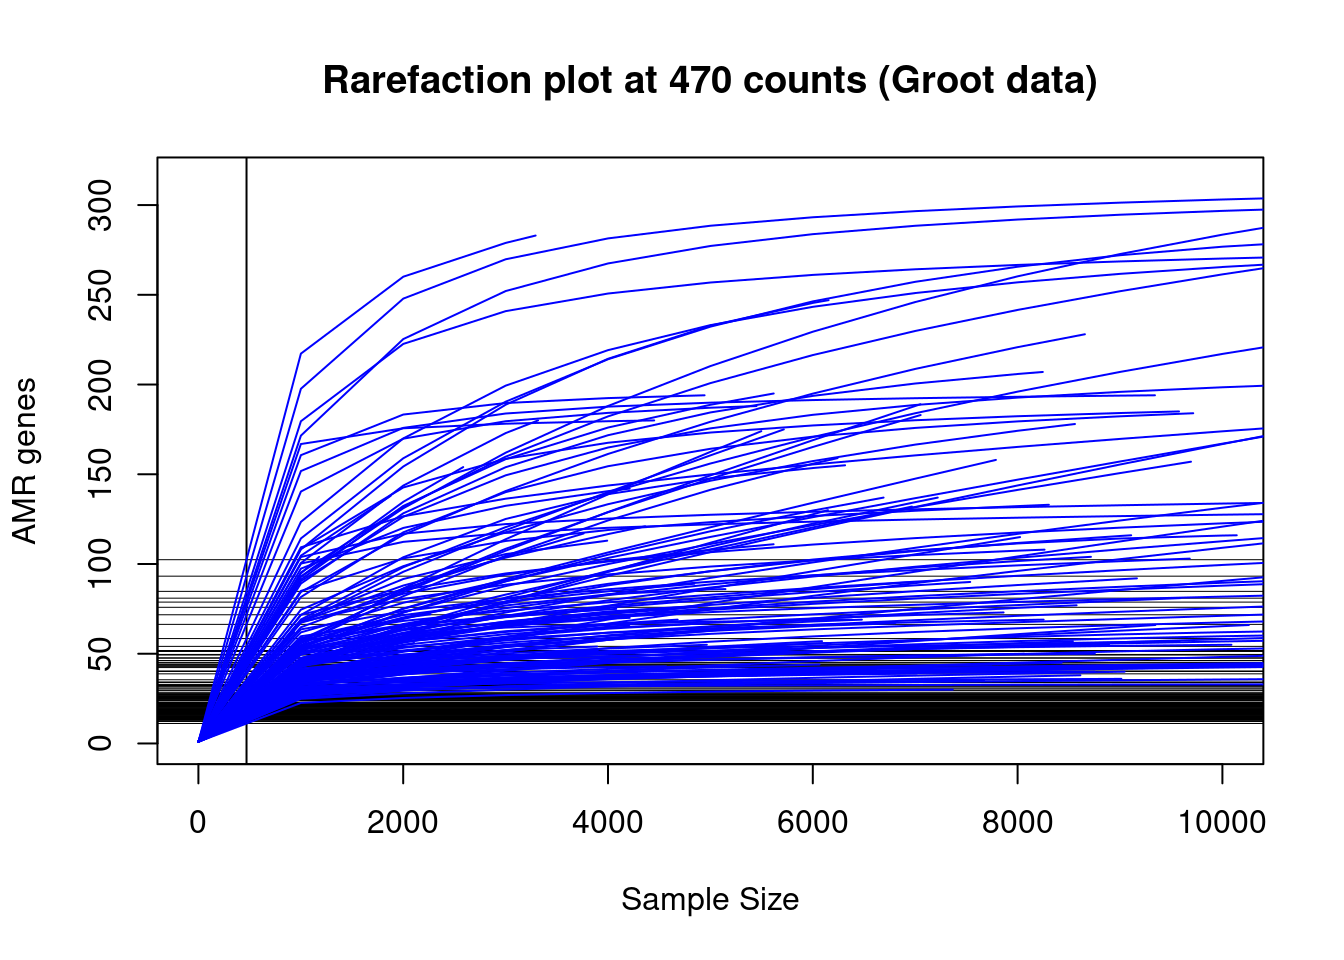
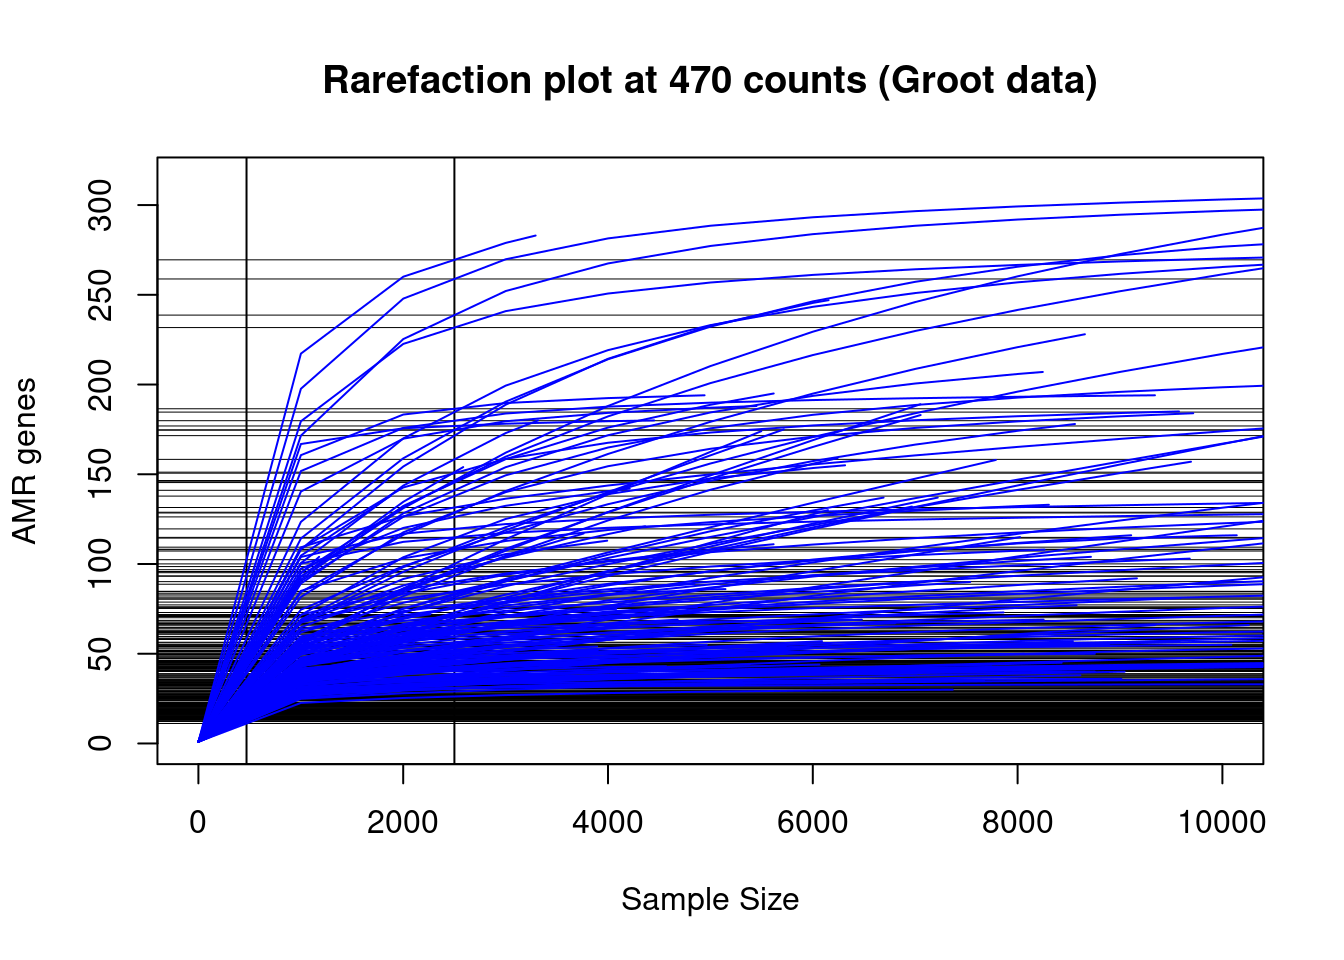
pec2_figures

Changed region(s): [[0.0938, 0.4062, 0.9375, 0.7188], [0.3125, 0.25, 0.3438, 0.3438]]

diff --git a/docs/03_rarefaction.html b/docs/03_rarefaction.html
@@ -347,6 +347,9 @@ div.tocify {
   <a href="02_summarize_data.html">Summarize data</a>
 </li>
 <li>
+  <a href="01_1_import_virulome.html">Import virulome</a>
+</li>
+<li>
   <a href="03_rarefaction.html">Rarefy data</a>
 </li>
 <li>
@@ -359,10 +362,19 @@ div.tocify {
   <a href="05_beta_div.html">Beta diversity analysis</a>
 </li>
 <li>
-  <a href="06_biplot.html">Biplot (Separman)</a>
+  <a href="06_biplot.html">Biplot (Spearman)</a>
 </li>
 <li>
   <a href="06_2_biplot_envfit.html">Biplot (Envfit)</a>
+</li>
+<li>
+  <a href="contingency_tabe.html">Contingency table</a>
+</li>
+<li>
+  <a href="08_amr_significance.html">AMR significance</a>
+</li>
+<li>
+  <a href="Profile.html">Profile</a>
 </li>
 <li>
   <a href="about.html">About</a>
@@ -399,7 +411,7 @@ div.tocify {
 
 <p>
 <button type="button" class="btn btn-default btn-workflowr btn-workflowr-report" data-toggle="collapse" data-target="#workflowr-report">
-<span class="glyphicon glyphicon-list" aria-hidden="true"></span> workflowr <span class="glyphicon glyphicon-ok text-success" aria-hidden="true"></span>
+<span class="glyphicon glyphicon-list" aria-hidden="true"></span> workflowr <span class="glyphicon glyphicon-exclamation-sign text-danger" aria-hidden="true"></span>
 </button>
 </p>
 <div id="workflowr-report" class="collapse">
@@ -408,7 +420,7 @@ div.tocify {
 <a data-toggle="tab" href="#summary">Summary</a>
 </li>
 <li>
-<a data-toggle="tab" href="#checks"> Checks <span class="glyphicon glyphicon-ok text-success" aria-hidden="true"></span> </a>
+<a data-toggle="tab" href="#checks"> Checks <span class="glyphicon glyphicon-exclamation-sign text-danger" aria-hidden="true"></span> </a>
 </li>
 <li>
 <a data-toggle="tab" href="#versions">Past versions</a>
@@ -417,10 +429,10 @@ div.tocify {
 <div class="tab-content">
 <div id="summary" class="tab-pane fade in active">
 <p>
-<strong>Last updated:</strong> 2022-09-03
+<strong>Last updated:</strong> 2022-11-07
 </p>
 <p>
-<strong>Checks:</strong> <span class="glyphicon glyphicon-ok text-success" aria-hidden="true"></span> 7 <span class="glyphicon glyphicon-exclamation-sign text-danger" aria-hidden="true"></span> 0
+<strong>Checks:</strong> <span class="glyphicon glyphicon-ok text-success" aria-hidden="true"></span> 6 <span class="glyphicon glyphicon-exclamation-sign text-danger" aria-hidden="true"></span> 1
 </p>
 <p>
 <strong>Knit directory:</strong> <code>2022_Rubio_MetaHIV/</code> <span class="glyphicon glyphicon-question-sign" aria-hidden="true" title="This is the local directory in which the code in this file was executed."> </span>
@@ -436,12 +448,12 @@ This reproducible <a href="https://rmarkdown.rstudio.com">R Markdown</a> analysi
 <div class="panel panel-default">
 <div class="panel-heading">
 <p class="panel-title">
-<a data-toggle="collapse" data-parent="#workflowr-checks" href="#strongRMarkdownfilestronguptodate"> <span class="glyphicon glyphicon-ok text-success" aria-hidden="true"></span> <strong>R Markdown file:</strong> up-to-date </a>
+<a data-toggle="collapse" data-parent="#workflowr-checks" href="#strongRMarkdownfilestronguncommittedchanges"> <span class="glyphicon glyphicon-exclamation-sign text-danger" aria-hidden="true"></span> <strong>R Markdown file:</strong> uncommitted changes </a>
 </p>
 </div>
-<div id="strongRMarkdownfilestronguptodate" class="panel-collapse collapse">
+<div id="strongRMarkdownfilestronguncommittedchanges" class="panel-collapse collapse">
 <div class="panel-body">
-<p>Great! Since the R Markdown file has been committed to the Git repository, you know the exact version of the code that produced these results.</p>
+<p>The R Markdown file has unstaged changes. To know which version of the R Markdown file created these results, you’ll want to first commit it to the Git repo. If you’re still working on the analysis, you can ignore this warning. When you’re finished, you can run <code>wflow_publish</code> to commit the R Markdown file and build the HTML.</p>
 </div>
 </div>
 </div>
@@ -508,16 +520,16 @@ This reproducible <a href="https://rmarkdown.rstudio.com">R Markdown</a> analysi
 <div class="panel panel-default">
 <div class="panel-heading">
 <p class="panel-title">
-<a data-toggle="collapse" data-parent="#workflowr-checks" href="#strongRepositoryversionstrongahrefhttpsgithubcomMicrobialGenomics2022RubioMetaHIVtreeef31c926e301e12aac832aa4030b294c79954876targetblankef31c92a"> <span class="glyphicon glyphicon-ok text-success" aria-hidden="true"></span> <strong>Repository version:</strong> <a href="https://github.com/MicrobialGenomics/2022_Rubio_MetaHIV/tree/ef31c926e301e12aac832aa4030b294c79954876" target="_blank">ef31c92</a> </a>
+<a data-toggle="collapse" data-parent="#workflowr-checks" href="#strongRepositoryversionstrongahrefhttpsgithubcomMicrobialGenomics2022RubioMetaHIVtreeca28164abc87450428f3e436eb1a22082e078b62targetblankca28164a"> <span class="glyphicon glyphicon-ok text-success" aria-hidden="true"></span> <strong>Repository version:</strong> <a href="https://github.com/MicrobialGenomics/2022_Rubio_MetaHIV/tree/ca28164abc87450428f3e436eb1a22082e078b62" target="_blank">ca28164</a> </a>
 </p>
 </div>
[2 lines of base64/hex data omitted]
 <div class="panel-body">
 <p>
 Great! You are using Git for version control. Tracking code development and connecting the code version to the results is critical for reproducibility.
 </p>
 <p>
-The results in this page were generated with repository version <a href="https://github.com/MicrobialGenomics/2022_Rubio_MetaHIV/tree/ef31c926e301e12aac832aa4030b294c79954876" target="_blank">ef31c92</a>. See the <em>Past versions</em> tab to see a history of the changes made to the R Markdown and HTML files.
+The results in this page were generated with repository version <a href="https://github.com/MicrobialGenomics/2022_Rubio_MetaHIV/tree/ca28164abc87450428f3e436eb1a22082e078b62" target="_blank">ca28164</a>. See the <em>Past versions</em> tab to see a history of the changes made to the R Markdown and HTML files.
 </p>
 <p>
 Note that you need to be careful to ensure that all relevant files for the analysis have been committed to Git prior to generating the results (you can use <code>wflow_publish</code> or <code>wflow_git_commit</code>). workflowr only checks the R Markdown file, but you know if there are other scripts or data files that it depends on. Below is the status of the Git repository when the results were generated:
@@ -529,14 +541,10 @@ Ignored files:
     Ignored:    output/aribaData/
     Ignored:    output/grootData/
 
-Untracked files:
-    Untracked:  analysis/06_2_biplot_envfit.Rmd
-
 Unstaged changes:
-    Modified:   analysis/03_1_procruster.Rmd
-    Modified:   analysis/06_biplot.Rmd
-    Modified:   analysis/_site.yml
-    Modified:   analysis/index.Rmd
+    Modified:   analysis/01_1_import_virulome.Rmd
+    Modified:   analysis/01_2_import_virulome_data.Rmd
+    Modified:   analysis/03_rarefaction.Rmd
 
 </code></pre>
 <p>
@@ -575,6 +583,23 @@ Message
 </tr>
 </thead>
 <tbody>
+<tr>
+<td>
+html
+</td>
+<td>
+<a href="https://rawcdn.githack.com/MicrobialGenomics/2022_Rubio_MetaHIV/6646c668f56fb1de45bf0dd1d69b77817863e398/docs/03_rarefaction.html" target="_blank">6646c66</a>
+</td>
+<td>
+Elisa
+</td>
+<td>
+2022-09-03
+</td>
+<td>
+Procruster with 200 iterations and biplots using envfit
+</td>
+</tr>
 <tr>
 <td>
 html
@@ -880,7 +905,7 @@ Elisa
 </div>
 </div>
 <p>We loose a lot of AMR genes if we rarefy at 470counts.</p>
-<pre class="r"><code>rarecurve(t(groot_counts[ ,-1]), step = 1000, sample = raremax, col = &quot;blue&quot;, cex = 0.6, ylab = &quot;AMR genes&quot;, label = FALSE, xlim=c(0,10000), main=glue(&quot;Rarefaction plot at {raremax} counts (Groot data)&quot;))</code></pre>
+<pre class="r"><code>rarecurve(t(groot_counts[ ,-1]), step = 1000, sample = c(raremax, 2500), col = &quot;blue&quot;, cex = 0.6, ylab = &quot;AMR genes&quot;, label = FALSE, xlim=c(0,10000), main=glue(&quot;Rarefaction plot at {raremax} counts (Groot data)&quot;))</code></pre>
 <p><img src="figure/03_rarefaction.Rmd/unnamed-chunk-8-1.png" width="672" style="display: block; margin: auto;" /></p>
 <p>
 <button type="button" class="btn btn-default btn-xs btn-workflowr btn-workflowr-fig" data-toggle="collapse" data-target="#fig-unnamed-chunk-8-1">
@@ -1089,6 +1114,19 @@ groot_rar&lt;-as_tibble(t(groot_rar))%&gt;%mutate(ref_name=groot_counts_filt$ref
   select(ref_name, everything())
 
 save(groot_rar, file=glue(&quot;output/rarefied{nrar}_groot.RDA&quot;))</code></pre>
+<p>Document figures:</p>
+<pre class="r"><code>rarecurve(t(groot_counts[ ,-1]), step = 1000, sample = c(raremax, nrar), col = &quot;blue&quot;, cex = 0.6, ylab = &quot;AMR genes&quot;, label = FALSE, xlim=c(0,10000), main=glue(&quot;Rarefaction plot at {raremax}  and {nrar} counts (Groot data)&quot;))</code></pre>
+<p><img src="figure/03_rarefaction.Rmd/unnamed-chunk-12-1.png" width="672" style="display: block; margin: auto;" /></p>
+<pre class="r"><code>par(mfrow=c(1,2))
+
+Srare &lt;- rarefy(t(groot_counts[ ,-1]), raremax) # observed number of rarefied AMR genes
+plot(S, Srare, xlab = &quot;Observed No. of AMR genes&quot;, ylab = &quot;Rarefied No. of AMR genes&quot;, main=glue(&quot;Rarefaction at {raremax} counts&quot;))
+abline(0, 1)
+
+Srare &lt;- rarefy(t(groot_counts[ ,-1]), nrar) # observed number of rarefied AMR genes
+plot(S, Srare, xlab = &quot;Observed No. of AMR genes&quot;, ylab = &quot;Rarefied No. of AMR genes&quot;, main=glue(&quot;Rarefaction at {nrar} counts&quot;))
+abline(0, 1)</code></pre>
+<p><img src="figure/03_rarefaction.Rmd/unnamed-chunk-13-1.png" width="672" style="display: block; margin: auto;" /></p>
 <br>
 <p>
 <button type="button" class="btn btn-default btn-workflowr btn-workflowr-sessioninfo" data-toggle="collapse" data-target="#workflowr-sessioninfo" style="display: block;">
@@ -1128,10 +1166,10 @@ loaded via a namespace (and not attached):
  [9] highr_0.9        cellranger_1.1.0 yaml_2.3.5       pillar_1.7.0    
 [13] backports_1.4.1  digest_0.6.29    promises_1.2.0.1 rvest_1.0.2     
 [17] colorspace_2.0-3 htmltools_0.5.2  httpuv_1.6.5     Matrix_1.4-0    
-[21] pkgconfig_2.0.3  broom_0.7.12     haven_2.4.3      scales_1.1.1    
+[21] pkgconfig_2.0.3  broom_1.0.1      haven_2.4.3      scales_1.2.1    
 [25] processx_3.5.3   whisker_0.4      later_1.3.0      tzdb_0.2.0      
 [29] git2r_0.30.1     mgcv_1.8-38      farver_2.1.0     generics_0.1.2  
-[33] ellipsis_0.3.2   withr_2.5.0      cli_3.2.0        magrittr_2.0.2  
+[33] ellipsis_0.3.2   withr_2.5.0      cli_3.3.0        magrittr_2.0.2  
 [37] crayon_1.5.1     readxl_1.3.1     evaluate_0.15    ps_1.6.0        
 [41] fs_1.5.2         fansi_1.0.3      nlme_3.1-157     MASS_7.3-56     
 [45] xml2_1.3.3       tools_4.1.2      hms_1.1.1        lifecycle_1.0.1 

diff --git a/docs/01_2_import_virulome_data.html b/docs/01_2_import_virulome_data.html
@@ -9,11 +9,11 @@
 <meta http-equiv="X-UA-Compatible" content="IE=EDGE" />
 
 
-<meta name="author" content="Elisa_Linux" />
+<meta name="author" content="Elisa Rubio" />
 
 <meta name="date" content="2022-09-15" />
 
-<title>01_1_import_virulome</title>
+<title>01_2_import_virulome_data</title>
 
 <script src="site_libs/header-attrs-2.13/header-attrs.js"></script>
 <script src="site_libs/jquery-3.6.0/jquery-3.6.0.min.js"></script>
@@ -402,8 +402,8 @@ div.tocify {
 
 
 
-<h1 class="title toc-ignore">01_1_import_virulome</h1>
-<h4 class="author">Elisa_Linux</h4>
+<h1 class="title toc-ignore">01_2_import_virulome_data</h1>
+<h4 class="author">Elisa Rubio</h4>
 <h4 class="date">2022-09-15</h4>
 
 </div>
@@ -543,6 +543,7 @@ Ignored files:
 
 Unstaged changes:
     Modified:   analysis/01_1_import_virulome.Rmd
+    Modified:   analysis/01_2_import_virulome_data.Rmd
     Modified:   analysis/03_rarefaction.Rmd
 
 </code></pre>
@@ -558,7 +559,7 @@ Note that any generated files, e.g. HTML, png, CSS, etc., are not included in t
 <div id="versions" class="tab-pane fade">
 
 <p>
-These are the previous versions of the repository in which changes were made to the R Markdown (<code>analysis/01_1_import_virulome.Rmd</code>) and HTML (<code>docs/01_1_import_virulome.html</code>) files. If you’ve configured a remote Git repository (see <code>?wflow_git_remote</code>), click on the hyperlinks in the table below to view the files as they were in that past version.
+These are the previous versions of the repository in which changes were made to the R Markdown (<code>analysis/01_2_import_virulome_data.Rmd</code>) and HTML (<code>docs/01_2_import_virulome_data.html</code>) files. If you’ve configured a remote Git repository (see <code>?wflow_git_remote</code>), click on the hyperlinks in the table below to view the files as they were in that past version.
 </p>
 <div class="table-responsive">
 <table class="table table-condensed table-hover">
@@ -587,33 +588,16 @@ Message
 Rmd
 </td>
 <td>
-<a href="https://github.com/MicrobialGenomics/2022_Rubio_MetaHIV/blob/956d07214e8f8dd192bc5feb1594f94c72ff10a6/analysis/01_1_import_virulome.Rmd" target="_blank">956d072</a>
+<a href="https://github.com/MicrobialGenomics/2022_Rubio_MetaHIV/blob/ca28164abc87450428f3e436eb1a22082e078b62/analysis/01_2_import_virulome_data.Rmd" target="_blank">ca28164</a>
 </td>
 <td>
-Elisa_Linux
+Elisa
 </td>
 <td>
-2022-09-15
+2022-11-06
 </td>
 <td>
-import virulome
-</td>
-</tr>
-<tr>
-<td>
-html
-</td>
-<td>
-<a href="https://rawcdn.githack.com/MicrobialGenomics/2022_Rubio_MetaHIV/956d07214e8f8dd192bc5feb1594f94c72ff10a6/docs/01_1_import_virulome.html" target="_blank">956d072</a>
-</td>
-<td>
-Elisa_Linux
-</td>
-<td>
-2022-09-15
-</td>
-<td>
-import virulome
+refname_comparison
 </td>
 </tr>
 </tbody>
@@ -624,55 +608,51 @@ import virulome
 </div>
 </div>
 <pre class="r"><code>library(tidyverse)
-library(readxl)
-library(kableExtra)</code></pre>
-<div id="import-virulome-metadata" class="section level2">
-<h2>Import virulome metadata</h2>
+library(readxl)</code></pre>
 <pre class="r"><code>VFs &lt;- read_excel(&quot;data/vfdbData/VFs.xls&quot;, 
-    skip = 1)
-
-dataTable &lt;- readRDS(&quot;data/Metadata/dataTable.rds&quot;)%&gt;%select(SampleID, InitialReads)%&gt;%
-  unique()</code></pre>
-<div id="get-all-report-files-list-of-dataframes-and-assign-names" class="section level3">
-<h3>Get all report files (list of dataframes) and assign names:</h3>
-<pre class="r"><code>virulome_samples&lt;-list.files(&quot;data/vfdbData&quot;, pattern =&quot;geneCounts.txt&quot;)%&gt;%str_extract(pattern = &quot;Sample_\\d+&quot;)
-virulome_files&lt;-list.files(&quot;data/vfdbData&quot;, full.names = TRUE, pattern =&quot;geneCounts.txt&quot;)
-
-virulome_data &lt;- lapply(virulome_files, function(x) read_table(x,col_names = c(&quot;Count&quot;, &quot;VF&quot;)))
+    skip = 1)</code></pre>
+<div id="get-vorulome-files-list-of-dataframes-and-get-names" class="section level2">
+<h2>Get vorulome files (list of dataframes) and get names</h2>
+<pre class="r"><code>virulome_samples&lt;-list.files(&quot;data/vfdbData&quot;, pattern = &quot;geneCounts.txt&quot;)%&gt;%str_extract(pattern = &quot;Sample_\\d+&quot;)
+virulome_files&lt;-list.files(&quot;data/vfdbData&quot;, full.names = TRUE, pattern = &quot;geneCounts.txt&quot;) 
+virulome_data &lt;- lapply(virulome_files, read_tsv)
 names(virulome_data)&lt;-virulome_samples</code></pre>
-<pre class="r"><code># v1&lt;-virulome_data[[&quot;Sample_001&quot;]]
-# v1&lt;-v1%&gt;%separate(VF, into = c(&quot;VFG&quot;), remove=FALSE)%&gt;%
-#   mutate(VFG_num=str_extract(VFG, &quot;\\d+&quot;),
-#          VFG_num=as.numeric(VFG_num))</code></pre>
-<pre class="r"><code>vfg&lt;-function(x){x%&gt;%separate(VF, into = c(&quot;VFG&quot;), remove=FALSE)%&gt;%
-  mutate(VFG_num=str_extract(VFG, &quot;\\d+&quot;),
-         VFG_num=as.numeric(VFG_num))}
+<pre><code>
 
-virulome_data&lt;-lapply(virulome_data, vfg)</code></pre>
+```r
+read_tsv(&quot;data/vfdbData/Sample_001_geneCounts.txt&quot;, col_names=FALSE)</code></pre>
+<pre class="r"><code>if (!dir.exists(&quot;output/virulomeData&quot;)){
+virulomeData&lt;-list.files(&quot;data/aribaData&quot;, full.names = TRUE)
+dir.create(&quot;output/aribaData&quot;)
+lapply(aribaData, untar,  exdir = &quot;output/aribaData/&quot;)}
+
+if (!dir.exists(&quot;output/grootData&quot;)){
+grootData&lt;-list.files(&quot;data/grootData&quot;, full.names = TRUE)
+dir.create(&quot;output/grootData&quot;)
+lapply(grootData, untar,  exdir = &quot;output/grootData/&quot;)}</code></pre>
 </div>
-<div id="calculate-rpkm" class="section level3">
-<h3>Calculate RPKM</h3>
-<pre class="r"><code>all.equal(dataTable$SampleID, virulome_samples)
-
-## ref_len is missing, not possible to calculate RPKM
-for (i in 1:length(virulome_data)){
- virulome_data[[i]]$RPKM&lt;-virulome_data[[i]]$`Count`/(virulome_data[[i]]$`ref_len`/1000 * dataTable$InitialReads[i]/1000000)}</code></pre>
+<div id="reorganize-files" class="section level2">
+<h2>Reorganize files</h2>
+<div id="ariba-files" class="section level3">
+<h3>Ariba files</h3>
+<pre class="bash"><code>if [[ -e output/aribaData/tmp ]]; then
+  cp  -r output/aribaData/tmp/*/ABR/Ariba/*  output/aribaData
+  rm -r output/aribaData/tmp
+  prename &#39;s/_out//&#39; output/aribaData/*out/; fi  ##Change folder names (Substitute out for nothing)
+</code></pre>
+<pre class="bash"><code>##Change report names to include sample name and move them from the directories
+for subdir in output/aribaData/*; do
+  if [[ -e $subdir/report.tsv ]]; then
+  subdir1=${subdir##*/}
+  mv $subdir/report.tsv output/aribaData/${subdir1}_ariba_report.tsv; fi; done
+</code></pre>
 </div>
-<div id="transform-data-to-obtain-matrix" class="section level3">
-<h3>Transform data to obtain matrix</h3>
-<pre class="r"><code>transform_data&lt;-function(list_df, sample_names, df_variable){
-  df_variable&lt;-enquo(df_variable)
-df_filt&lt;-lapply(list_df, function(x) select(x, VFG, !!df_variable)) ##select variables
-
-for (i in 1:length(df_filt)){
- names(df_filt[[i]])[2]&lt;-sample_names[i]} ##change reads column name to sample name
-
-df_transform&lt;-df_filt %&gt;% reduce(full_join, by=&#39;VFG&#39;)
-df_transform[is.na(df_transform)] &lt;- 0
-return(df_transform)}</code></pre>
-<pre class="r"><code>virulome_count&lt;-transform_data(virulome_data, virulome_samples, Count)
-head(virulome_count, 15)%&gt;%kable(caption=&quot;**Table. Virulome Counts** &quot;)%&gt;%kable_paper(&quot;striped&quot;)%&gt;%scroll_box(width = &quot;100%&quot;)</code></pre>
-<pre class="r"><code>save(virulome_count, file=&quot;output/virulome.RDA&quot;)</code></pre>
+<div id="groot-files" class="section level3">
+<h3>Groot files</h3>
+<pre class="bash"><code>if [[ -e output/grootData/tmp ]]; then
+cp  -r output/grootData/tmp/*/ABR/Groot/*/*  output/grootData
+rm -r output/grootData/tmp; fi
+</code></pre>
 <br>
 <p>
 <button type="button" class="btn btn-default btn-workflowr btn-workflowr-sessioninfo" data-toggle="collapse" data-target="#workflowr-sessioninfo" style="display: block;">
